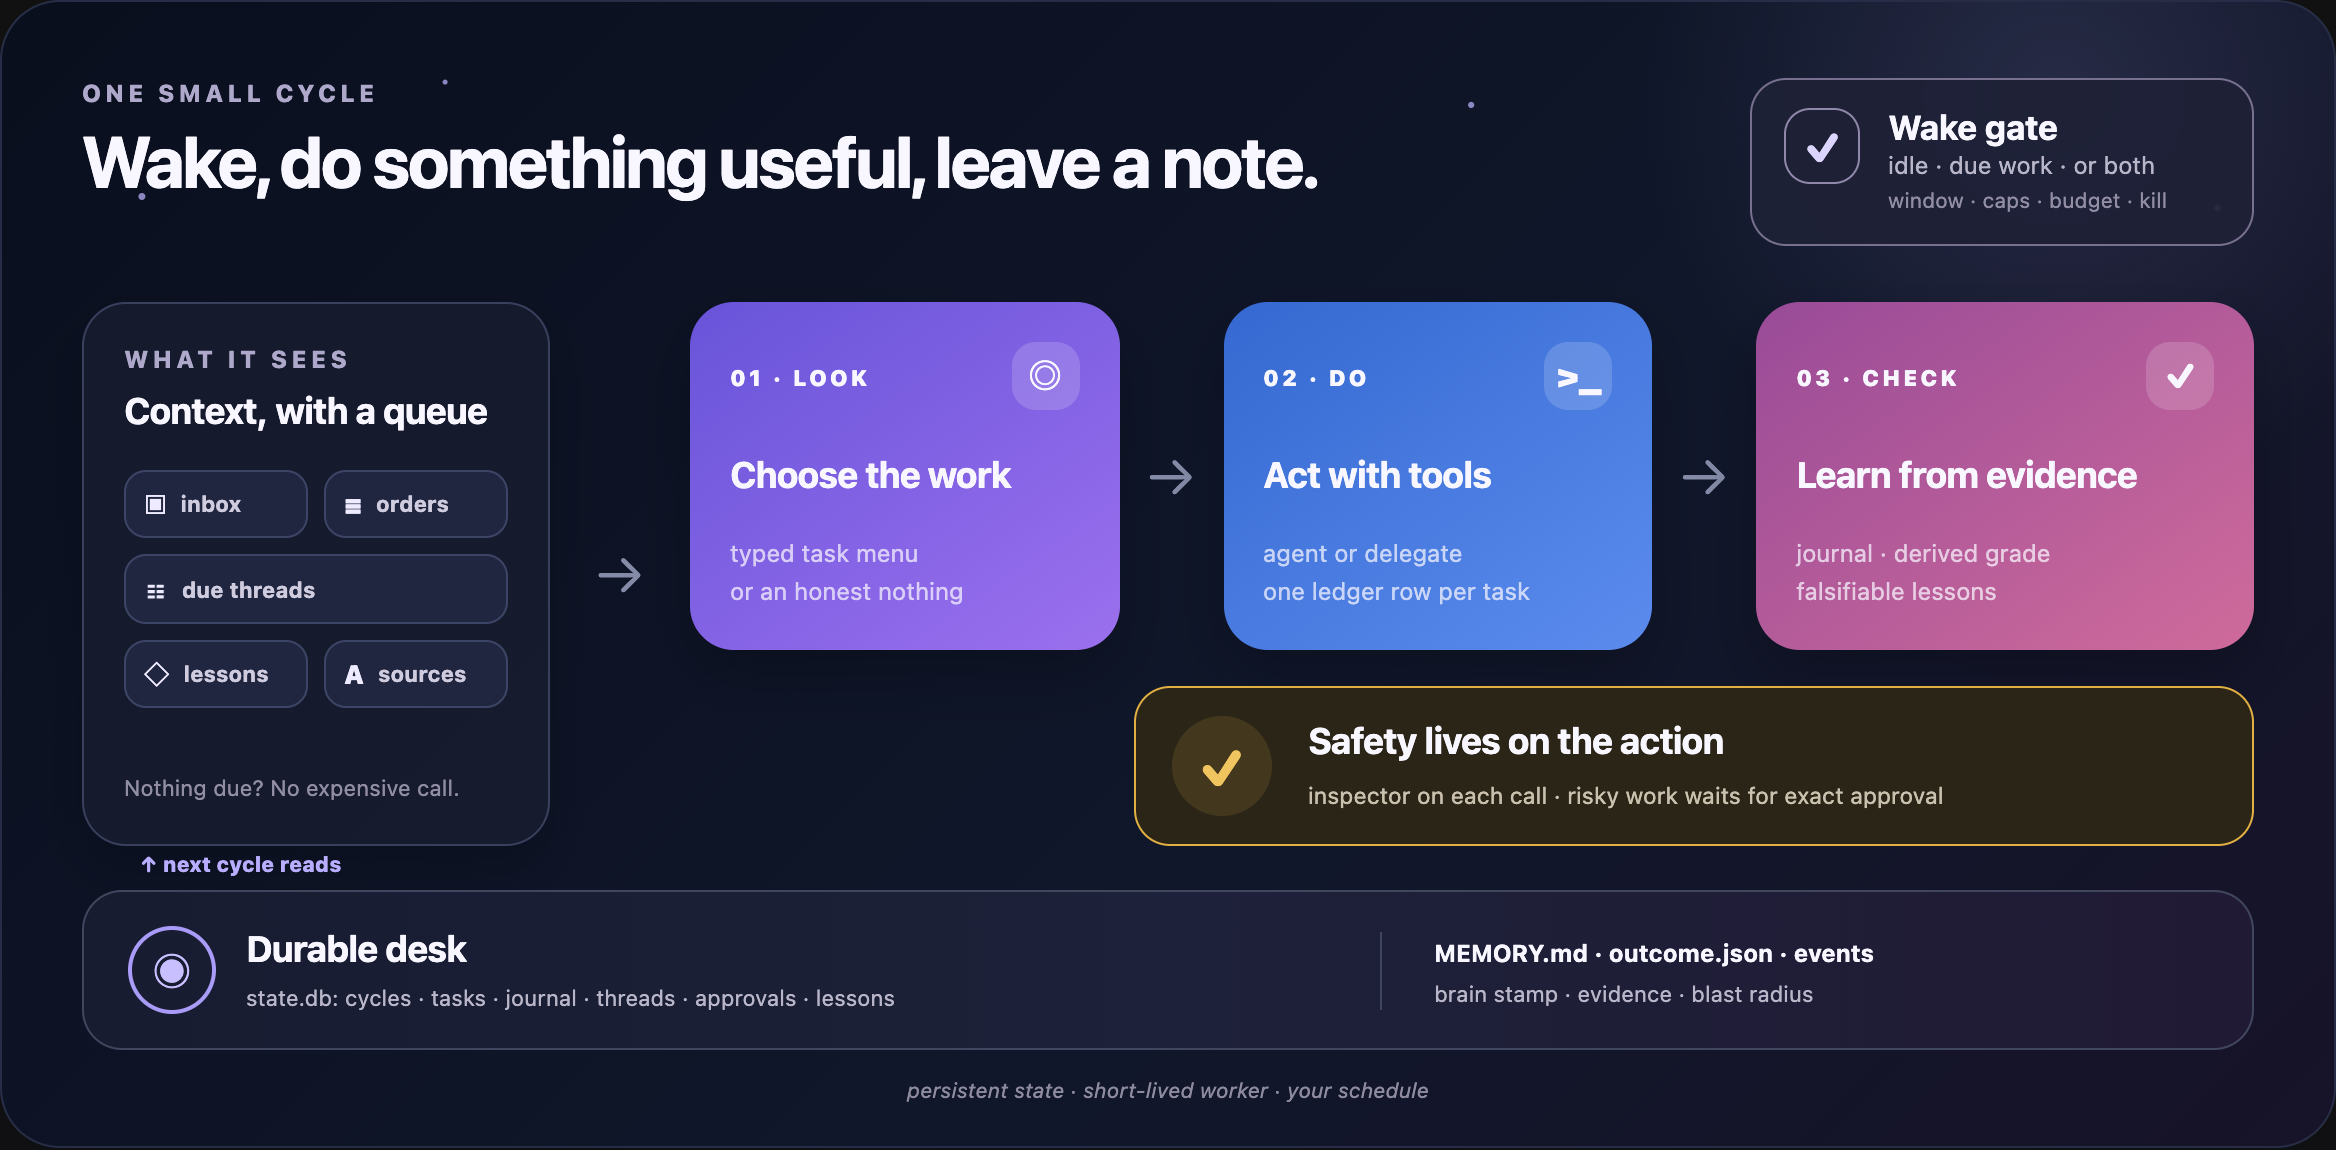
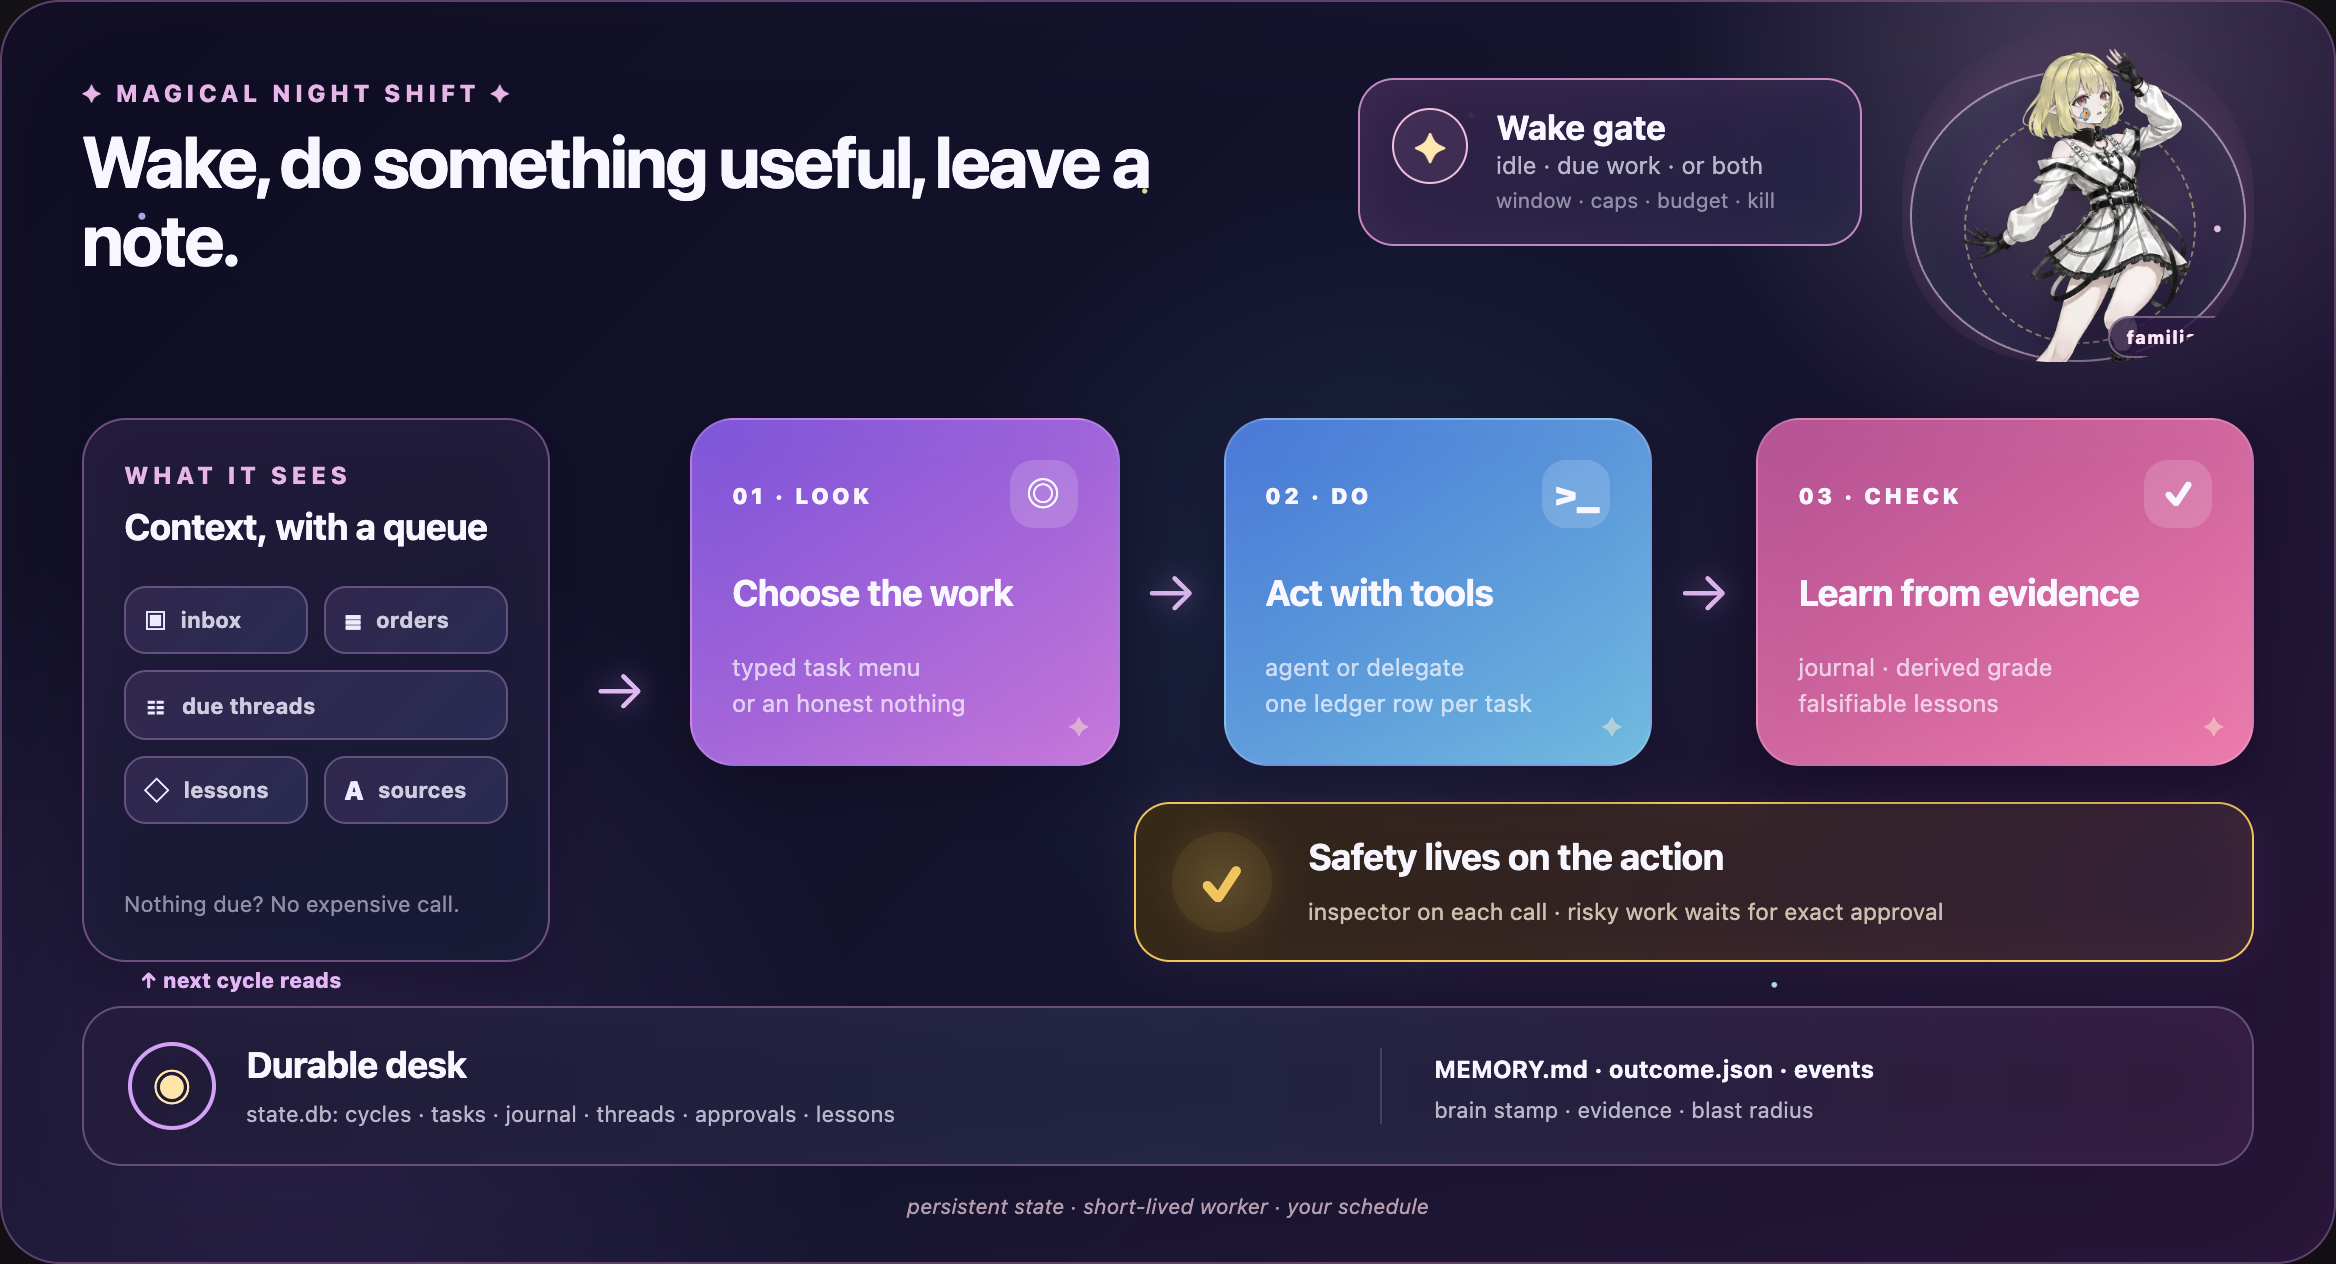
Polish the diagram art direction

Changed region(s): [[0.0312, 0.0, 0.9688, 0.7609], [0.0312, 0.3043, 0.9688, 1.0], [0.9375, 0.7913, 0.9688, 0.8217]]

diff --git a/docs/diagram.html b/docs/diagram.html
@@ -12,18 +12,18 @@
   <style>
     :root {
       color-scheme: dark;
-      --night: #0a0f1e;
-      --night-2: #171329;
-      --panel: #171c30;
-      --panel-2: #202640;
-      --line: #858ca8;
+      --night: #0d0c22;
+      --night-2: #251335;
+      --panel: #1c1834;
+      --panel-2: #2a2449;
+      --line: #c4a9e6;
       --text: #f8f6ff;
       --muted: #b9b6c9;
       --quiet: #918da4;
-      --violet: #8f71ef;
-      --blue: #4c7de5;
-      --rose: #bc609d;
-      --amber: #e2af42;
+      --violet: #a57aff;
+      --blue: #65bde9;
+      --rose: #ef79b2;
+      --amber: #f0c65d;
     }
 
     * { box-sizing: border-box; }
@@ -41,40 +41,44 @@
       position: relative;
       width: min(1168px, calc(100vw - 32px));
       overflow: hidden;
-      border: 1px solid #272d46;
+      border: 1px solid #5d416e;
       border-radius: 30px;
       padding: 38px 40px 22px;
       color: var(--text);
       background:
-        radial-gradient(circle at 88% 8%, rgba(190, 178, 255, .13), transparent 18%),
-        linear-gradient(135deg, var(--night), #10172a 58%, var(--night-2));
-      box-shadow: 0 24px 70px rgba(3, 6, 15, .35);
+        radial-gradient(circle at 89% 5%, rgba(255, 208, 244, .2), transparent 17%),
+        radial-gradient(circle at 58% 47%, rgba(93, 198, 236, .1), transparent 28%),
+        radial-gradient(circle at 12% 86%, rgba(196, 133, 255, .12), transparent 25%),
+        linear-gradient(135deg, var(--night), #14142e 55%, var(--night-2));
+      box-shadow: 0 24px 70px rgba(21, 5, 33, .4), inset 0 0 70px rgba(231, 131, 205, .03);
     }
 
     .stars {
       position: absolute;
       inset: 0;
       pointer-events: none;
-      opacity: .72;
+      opacity: .9;
       background-image:
         radial-gradient(circle at 6% 17%, #bdb3ff 0 1.5px, transparent 2px),
         radial-gradient(circle at 19% 7%, #bdb3ff 0 1px, transparent 1.5px),
         radial-gradient(circle at 63% 9%, #bdb3ff 0 1.3px, transparent 1.8px),
-        radial-gradient(circle at 95% 18%, #bdb3ff 0 1.4px, transparent 2px);
+        radial-gradient(circle at 95% 18%, #ffd5f1 0 1.4px, transparent 2px),
+        radial-gradient(circle at 49% 15%, #ffeb9b 0 1px, transparent 1.6px),
+        radial-gradient(circle at 76% 78%, #b8efff 0 1.1px, transparent 1.7px);
     }
 
     .topline {
       position: relative;
-      display: flex;
+      display: grid;
+      grid-template-columns: minmax(0, 1fr) 252px 176px;
       align-items: flex-start;
-      justify-content: space-between;
-      gap: 32px;
+      gap: 20px;
       margin-bottom: 28px;
     }
 
     .eyebrow {
       margin: 0 0 8px;
-      color: #aea8ca;
+      color: #e8b5e8;
       font-size: 12px;
       font-weight: 800;
       letter-spacing: .18em;
@@ -82,7 +86,7 @@
     }
 
     h1 {
-      max-width: 680px;
+      max-width: 640px;
       margin: 0;
       font-size: clamp(26px, 3vw, 38px);
       line-height: 1.08;
@@ -90,14 +94,14 @@
     }
 
     .gate {
-      flex: 0 0 252px;
       display: grid;
       grid-template-columns: 38px 1fr;
       gap: 0 14px;
-      border: 1px solid #77708f;
+      border: 1px solid #c28ac0;
       border-radius: 18px;
       padding: 14px 16px;
-      background: rgba(30, 33, 54, .92);
+      background: linear-gradient(145deg, rgba(52, 34, 73, .94), rgba(34, 35, 67, .94));
+      box-shadow: inset 0 0 24px rgba(236, 143, 211, .08);
     }
 
     .gate-icon {
@@ -106,9 +110,10 @@
       place-items: center;
       width: 38px;
       height: 38px;
-      border: 1px solid #9088aa;
-      border-radius: 13px;
-      color: #dcd6ff;
+      border: 1px solid #efbfdb;
+      border-radius: 50%;
+      color: #ffe7b2;
+      background: rgba(240, 165, 216, .09);
       font-size: 20px;
       font-weight: 900;
     }
@@ -116,6 +121,64 @@
     .gate strong { font-size: 17px; }
     .gate span { color: var(--muted); font-size: 12px; line-height: 1.55; }
     .gate small { color: var(--quiet); font-size: 10.5px; line-height: 1.5; }
+
+    .mascot-stage {
+      position: relative;
+      height: 166px;
+      margin: -24px 0 0;
+      overflow: hidden;
+      border-radius: 50% 50% 42% 42%;
+      isolation: isolate;
+    }
+
+    .mascot-stage::before,
+    .mascot-stage::after {
+      content: "";
+      position: absolute;
+      border-radius: 50%;
+      pointer-events: none;
+    }
+
+    .mascot-stage::before {
+      inset: 20px 4px 0;
+      border: 1px solid rgba(255, 222, 245, .55);
+      background: radial-gradient(circle, rgba(255, 218, 245, .16), rgba(163, 119, 255, .05) 55%, transparent 70%);
+      box-shadow: 0 0 30px rgba(232, 121, 204, .2), inset 0 0 20px rgba(140, 210, 255, .1);
+    }
+
+    .mascot-stage::after {
+      width: 114px;
+      height: 114px;
+      top: 41px;
+      left: 31px;
+      border: 1px dashed rgba(255, 235, 170, .48);
+      transform: rotate(18deg);
+    }
+
+    .mascot-stage img {
+      position: absolute;
+      z-index: 2;
+      width: 166px;
+      height: auto;
+      top: 0;
+      left: 5px;
+      filter: drop-shadow(0 8px 13px rgba(6, 3, 18, .42));
+    }
+
+    .mascot-stage figcaption {
+      position: absolute;
+      z-index: 3;
+      right: 4px;
+      bottom: 2px;
+      border: 1px solid rgba(255, 226, 243, .36);
+      border-radius: 999px;
+      padding: 4px 8px;
+      color: #ffe7f6;
+      background: rgba(42, 25, 64, .82);
+      font-size: 9px;
+      font-weight: 800;
+      letter-spacing: .05em;
+    }
 
     .workbench {
       position: relative;
@@ -129,11 +192,11 @@
       display: flex;
       min-width: 0;
       flex-direction: column;
-      border: 1px solid #39405d;
+      border: 1px solid #6e4f83;
       border-radius: 22px;
       padding: 20px;
-      background: rgba(22, 27, 46, .94);
-      box-shadow: 0 12px 28px rgba(3, 5, 13, .28);
+      background: linear-gradient(160deg, rgba(34, 26, 58, .96), rgba(21, 25, 52, .94));
+      box-shadow: 0 12px 28px rgba(17, 4, 28, .3), inset 0 0 30px rgba(223, 126, 212, .04);
     }
 
     .context h2,
@@ -158,11 +221,11 @@
       min-width: 0;
       align-items: center;
       gap: 7px;
-      border: 1px solid #3c4565;
+      border: 1px solid #65517f;
       border-radius: 11px;
       padding: 8px 9px;
       color: #d0ccdf;
-      background: var(--panel-2);
+      background: linear-gradient(135deg, #31274d, #292b52);
       font-size: 11px;
       font-weight: 700;
     }
@@ -181,7 +244,8 @@
     .arrow {
       display: grid;
       place-items: center;
-      color: var(--line);
+      color: #e0b9f2;
+      text-shadow: 0 0 13px rgba(214, 145, 244, .44);
       font-size: 29px;
       font-weight: 300;
     }
@@ -201,18 +265,29 @@
     }
 
     .phase {
+      position: relative;
       display: flex;
       min-width: 0;
       min-height: 174px;
       flex-direction: column;
       border-radius: 22px;
       padding: 20px;
-      box-shadow: 0 14px 30px rgba(3, 5, 13, .3);
+      border: 1px solid rgba(255, 232, 250, .2);
+      box-shadow: 0 14px 30px rgba(16, 3, 27, .34), inset 0 0 26px rgba(255, 255, 255, .04);
     }
 
-    .phase.look { background: linear-gradient(145deg, #6854d9, #9b70ee); }
-    .phase.do { background: linear-gradient(145deg, #3569d1, #5b8bed); }
-    .phase.check { background: linear-gradient(145deg, #994b98, #cf6b9b); }
+    .phase.look { background: linear-gradient(145deg, #7b52d8, #c675d9); }
+    .phase.do { background: linear-gradient(145deg, #4776d6, #6fbadf); }
+    .phase.check { background: linear-gradient(145deg, #b34f91, #eb79aa); }
+
+    .phase::after {
+      content: "✦";
+      position: absolute;
+      right: 14px;
+      bottom: 11px;
+      color: rgba(255, 244, 206, .46);
+      font-size: 13px;
+    }
 
     .phase-top {
       display: flex;
@@ -259,7 +334,8 @@
       border: 1px solid var(--amber);
       border-radius: 18px;
       padding: 14px 18px;
-      background: #2b2518;
+      background: linear-gradient(100deg, #312515, #352038);
+      box-shadow: inset 0 0 28px rgba(255, 199, 92, .05), 0 0 22px rgba(232, 127, 207, .08);
     }
 
     .safety-icon {
@@ -270,7 +346,8 @@
       height: 50px;
       border-radius: 50%;
       color: #f0c45e;
-      background: rgba(216, 168, 61, .14);
+      background: radial-gradient(circle, rgba(255, 221, 115, .22), rgba(216, 168, 61, .1));
+      box-shadow: 0 0 18px rgba(240, 198, 93, .16);
       font-size: 25px;
       font-weight: 900;
     }
@@ -289,10 +366,11 @@
       gap: 26px;
       align-items: center;
       margin-top: 22px;
-      border: 1px solid #41465f;
+      border: 1px solid #665078;
       border-radius: 20px;
       padding: 17px 22px;
-      background: linear-gradient(90deg, #171c31, #1d2139 50%, #211a35);
+      background: linear-gradient(90deg, #211a39, #202441 50%, #321b3f);
+      box-shadow: inset 0 0 36px rgba(224, 129, 213, .04);
     }
 
     .state::before {
@@ -300,7 +378,7 @@
       position: absolute;
       left: 28px;
       top: -20px;
-      color: #b8adff;
+      color: #e3b6f5;
       font-size: 10.5px;
       font-weight: 800;
     }
@@ -318,9 +396,9 @@
       place-items: center;
       width: 44px;
       height: 44px;
-      border: 2px solid #a99bf8;
+      border: 2px solid #d3a2f6;
       border-radius: 50%;
-      color: #c8bfff;
+      color: #ffe6a8;
       font-size: 21px;
       font-weight: 900;
     }
@@ -342,7 +420,7 @@
 
     .footer {
       margin: 14px 0 0;
-      color: #8f8b9f;
+      color: #b59caf;
       font-size: 10.5px;
       font-style: italic;
       text-align: center;
@@ -353,6 +431,7 @@
       .diagram { width: 100vw; border-radius: 0; padding: 26px 20px 18px; }
       .topline, .workbench { grid-template-columns: 1fr; display: grid; }
       .gate { width: 100%; }
+      .mascot-stage { width: 176px; margin: -8px auto 0; }
       .workbench > .arrow { transform: rotate(90deg); }
       .process { grid-template-columns: 1fr; }
       .process > .arrow { transform: rotate(90deg); min-height: 24px; }
@@ -368,15 +447,19 @@
 
     <header class="topline">
       <div>
-        <p class="eyebrow">one small cycle</p>
+        <p class="eyebrow">✦ magical night shift ✦</p>
         <h1>Wake, do something useful, leave a note.</h1>
       </div>
       <section class="gate" aria-label="Wake gate">
-        <div class="gate-icon">✓</div>
+        <div class="gate-icon">✦</div>
         <strong>Wake gate</strong>
         <span>idle · due work · or both</span>
         <small>window · caps · budget · kill</small>
       </section>
+      <figure class="mascot-stage">
+        <img src="assets/elysia-mascot.webp" alt="Elysia mascot">
+        <figcaption>familiar ✦</figcaption>
+      </figure>
     </header>
 
     <section class="workbench">
